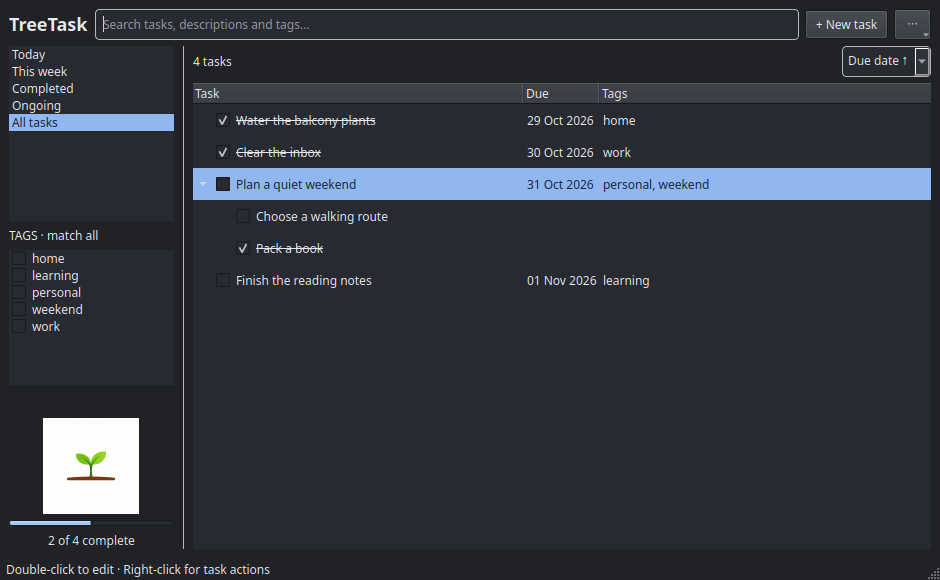
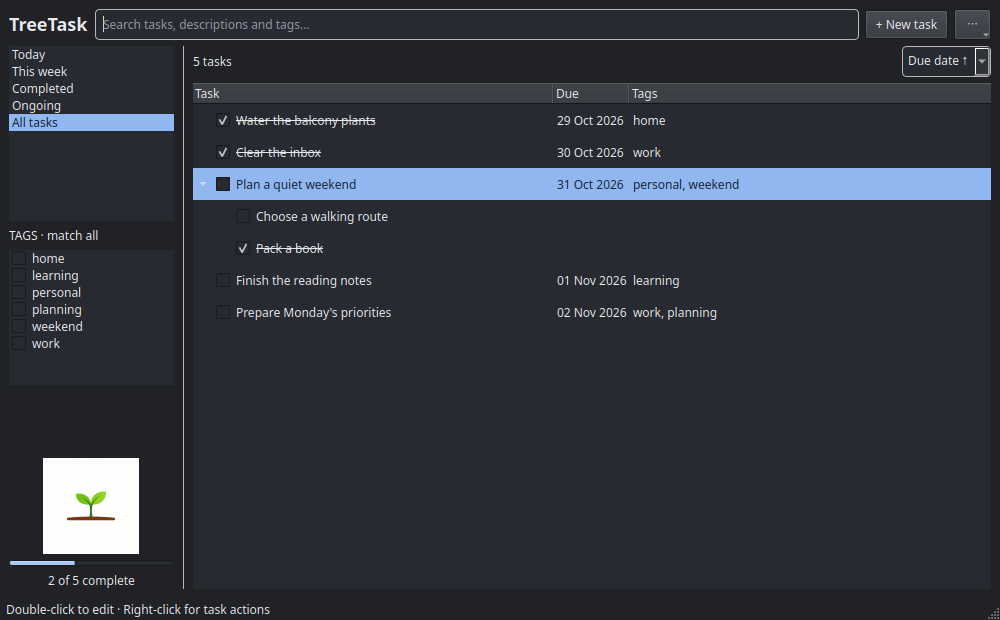
Refresh native example screenshot and document handy shortcuts

diff --git a/scripts/screenshots.py b/scripts/screenshots.py
@@ -32,13 +32,15 @@ def main():
             repo.complete("subtask", child, True)
             repo.save_task("Finish the reading notes", date(2026, 11, 1),
                            "Summarize the last chapter and keep three useful ideas.", "learning")
+            repo.save_task("Prepare Monday's priorities", date(2026, 11, 2),
+                           "Choose three tasks to focus on next week.", "work, planning")
             done = repo.save_task("Water the balcony plants", date(2026, 10, 29), tags="home")
             repo.complete("task", done, True)
             done = repo.save_task("Clear the inbox", date(2026, 10, 30), tags="work")
             repo.complete("task", done, True)
             window = MainWindow(repo)
             window.views.setCurrentRow(4)
-            window.resize(940, 580)
+            window.resize(1000, 620)
             for i in range(window.tree.topLevelItemCount()):
                 item = window.tree.topLevelItem(i)
                 if item.data(0, Qt.ItemDataRole.UserRole)[1] == first:

diff --git a/README.md b/README.md
@@ -6,6 +6,8 @@ Your descriptions, tags, and subtasks stay in SQLite on your computer.
 
 ![Native TreeTask with fictional example tasks](docs/images/main-window.png)
 
+Native window with example tasks, date sorting, tags, and expandable subtasks.
+
 ## Quick start
 
 Requires Python 3.10+ and a desktop with Qt support. PySide6 is installed automatically.
@@ -19,6 +21,19 @@ python3 -m venv .venv
 Choose **Today**, **This week**, **Completed**, **Ongoing**, or **All tasks**.
 **Ongoing** is the default. Tasks sort by due date; use the date dropdown to reverse
 that order. Double-click a task to edit it, or right-click for subtasks and actions.
+
+## Handy shortcuts
+
+| Shortcut | Action |
+| --- | --- |
+| Ctrl+Alt+Shift+N | Quick-add from any app after [GNOME setup](docs/user-guide.md#panel-icon-and-global-shortcut). |
+| Super+Shift+T | Open TreeTask after GNOME setup. |
+| Ctrl+N | New task inside TreeTask. |
+| Ctrl+Enter | Save the task dialog. |
+| Ctrl+W | Close the window to the panel, or cancel a task dialog. |
+| Space | Toggle the selected task's checkbox. |
+
+For example: press **Ctrl+Alt+Shift+N**, type a task, then **Ctrl+Enter** to save.
 
 See the [user guide](docs/user-guide.md) for desktop installation, shortcuts,
 search, tags, existing-data compatibility, and development checks.
